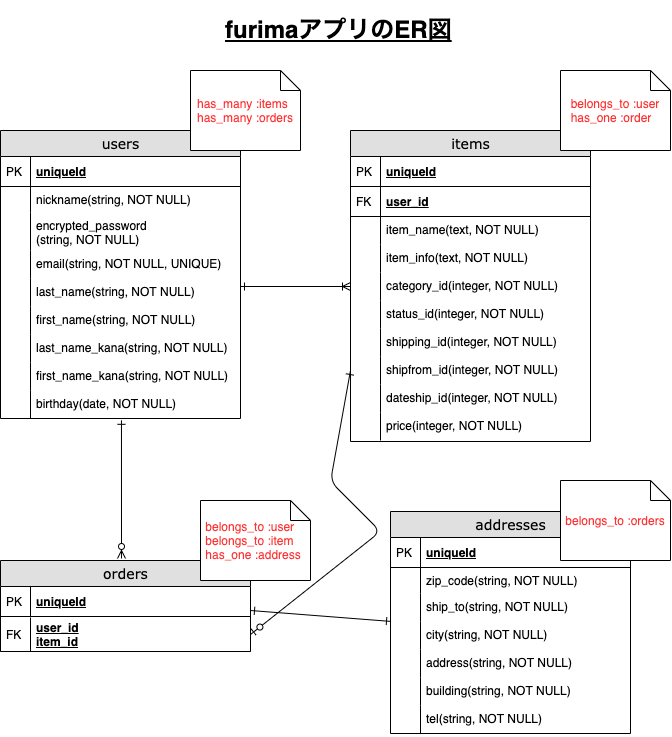
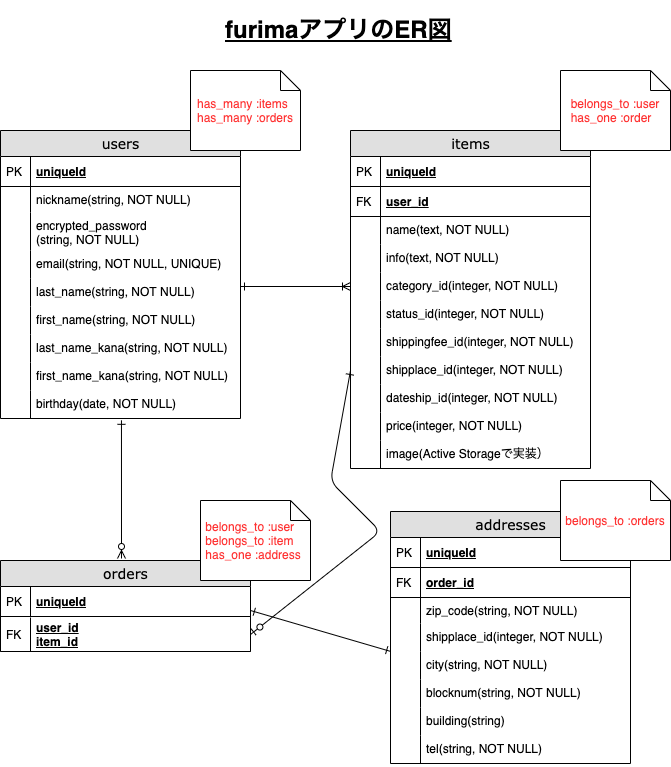
ER図修正及びREADME修正４回目
adressesテーブルの都道府県のところも同じitemsテーブルの発送元とカラム名に直しました。また、addressの外部キーorderも指定しました。

diff --git a/README.md b/README.md
@@ -22,17 +22,17 @@
 
 ## items テーブル
 
-| Column        | Type  		 | Options 	           |
-| :------------ | :------------ | :--------------- |
-| name          | string  		  | null: false      |
-| info          | text   		    | null: false      |
-| category_id   | integer       | null: false      |
-| status_id     | integer       | null: false      |
-| shipping_id   | integer       | null: false      |
-| shipfrom_id   | integer       | null: false      |
-| dateship_id   | integer		    | null: false      |
-| price         | integer       | null: false      |
-| user          | references    | foreign_key: true |
+| Column         | Type  		 | Options 	           |
+| :------------  | :------------ | :--------------- |
+| name           | string  		  | null: false      |
+| info           | text   		    | null: false      |
+| category_id    | integer       | null: false      |
+| status_id      | integer       | null: false      |
+| shippingfee_id | integer       | null: false      |
+| shipplace_id    | integer       | null: false      |
+| dateship_id    | integer		    | null: false      |
+| price          | integer       | null: false      |
+| user           | references    | foreign_key: true |
 
 ### Association
 
@@ -54,17 +54,16 @@
 
 ## addresses テーブル
 
-| Column         | Type  		 | Options 	         |
+| Column         | Type  	    	| Options           |
 | :------------- | :----------- | :---------------- |
-| zip_code       | string  		 | null: false       |
-| ship_to        | integer      | null: false       |
+| zip_code       | string  		  | null: false       |
+| shipplace_id   | integer      | null: false       |
 | city           | string       | null: false       |
-| address        | string       | null: false       |
+| blocknum       | string       | null: false       |
 | building       | string       | null: false       |
 | tel            | string       | null: false       |
+| order          | references   | foreign_key: true |
 
 ### Association
 
 - belongs_to :order
-
-
